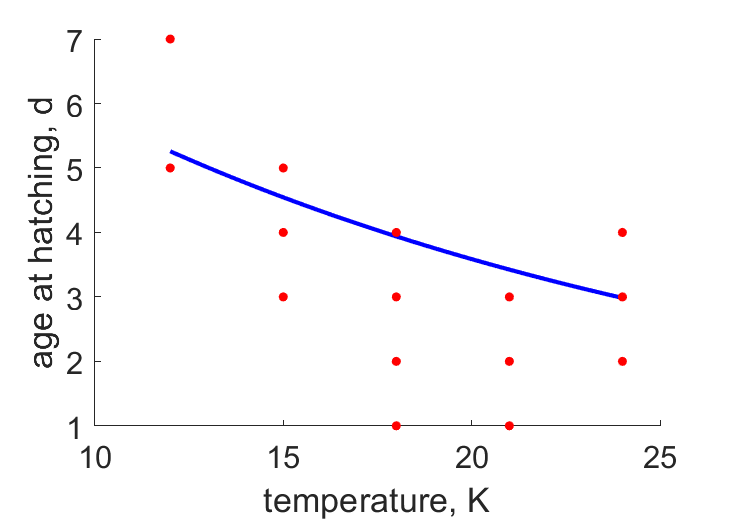
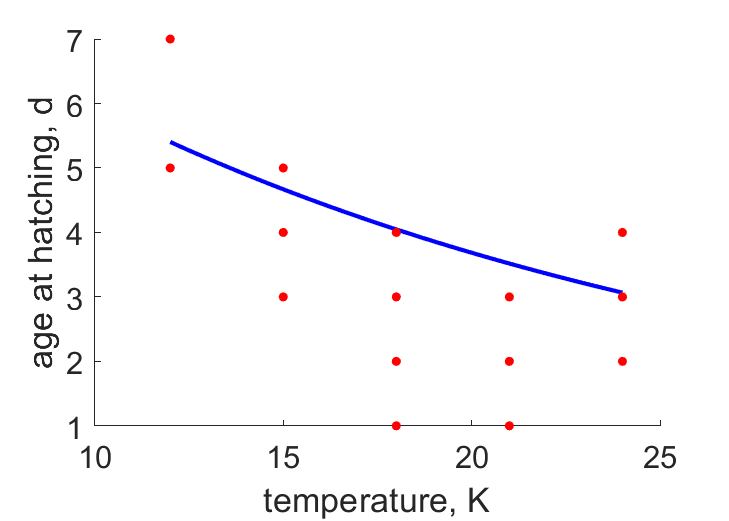
updates in preparation for AmP upload

Changed region(s): [[0.2112, 0.2764, 0.8752, 0.5835]]

diff --git a/Tachidius_discipes/Tachidius_discipes_res.html b/Tachidius_discipes/Tachidius_discipes_res.html
@@ -44,7 +44,7 @@
   </div>
 
   <div class="par">
-  <h4>COMPLETE = 2.0; MRE =    0.204; SMAE =    0.203; SMSE =    0.077 </h4>
+  <h4>COMPLETE = 2.0; MRE =    0.273; SMAE =    0.318; SMSE =    0.176 </h4>
   </div>
 
   <p class="clear"></p>
@@ -53,31 +53,31 @@
   <h2>Data & predictions</h2>
   <TABLE id="prd">
     <TR  class="head"><TH>data</TH> <TH>prd</TH> <TH>RE</TH>  <TH>symbol</TH> <TH>units</TH> <TH>description</TH> </TR>
-    <TR><TD>4.375</TD> <TD>4.041</TD> <TD>0.07625</TD> <TD>ah</TD> <TD>d</TD> <TD>age at hatch</TD></TR>
-    <TR><TD>0.006853</TD> <TD>0.007461</TD> <TD>0.08875</TD> <TD>Lh</TD> <TD>cm</TD> <TD>length at hatch</TD></TR>
-    <TR><TD>0.007812</TD> <TD>0.00812</TD> <TD>0.03944</TD> <TD>Lb</TD> <TD>cm</TD> <TD>length at birth</TD></TR>
-    <TR><TD>0.02666</TD> <TD>0.02195</TD> <TD>0.1767</TD> <TD>Lp</TD> <TD>cm</TD> <TD>length at puberty</TD></TR>
-    <TR><TD>2.057e-05</TD> <TD>2.049e-05</TD> <TD>0.003805</TD> <TD>Wdp</TD> <TD>g</TD> <TD>ultimate dry weight at puberty</TD></TR>
-    <TR><TD colspan="2">see figure</TD> <TD>0.2191</TD> <TD>tL12</TD> <TD colspan="2">time <font color="blue"><i>vs.</i></font> area^(1/2)</TD>
-    <TR><TD colspan="2">see figure</TD> <TD>0.1857</TD> <TD>tL15</TD> <TD colspan="2">time <font color="blue"><i>vs.</i></font> area^(1/2)</TD>
-    <TR><TD colspan="2">see figure</TD> <TD>0.1825</TD> <TD>tL18</TD> <TD colspan="2">time <font color="blue"><i>vs.</i></font> area^(1/2)</TD>
-    <TR><TD colspan="2">see figure</TD> <TD>0.1798</TD> <TD>tL21</TD> <TD colspan="2">time <font color="blue"><i>vs.</i></font> area^(1/2)</TD>
-    <TR><TD colspan="2">see figure</TD> <TD>0.1445</TD> <TD>tL24</TD> <TD colspan="2">time <font color="blue"><i>vs.</i></font> area^(1/2)</TD>
-    <TR><TD colspan="2">see figure</TD> <TD>0.1542</TD> <TD>tN12</TD> <TD colspan="2">time <font color="blue"><i>vs.</i></font> clutch size</TD>
-    <TR><TD colspan="2">see figure</TD> <TD>0.2581</TD> <TD>tN15</TD> <TD colspan="2">time <font color="blue"><i>vs.</i></font> clutch size</TD>
-    <TR><TD colspan="2">see figure</TD> <TD>0.2068</TD> <TD>tN18</TD> <TD colspan="2">time <font color="blue"><i>vs.</i></font> clutch size</TD>
-    <TR><TD colspan="2">see figure</TD> <TD>0.4694</TD> <TD>tN21</TD> <TD colspan="2">time <font color="blue"><i>vs.</i></font> clutch size</TD>
-    <TR><TD colspan="2">see figure</TD> <TD>0.3538</TD> <TD>tN24</TD> <TD colspan="2">time <font color="blue"><i>vs.</i></font> clutch size</TD>
-    <TR><TD colspan="2">see figure</TD> <TD>0.2498</TD> <TD>Tah</TD> <TD colspan="2">temperature <font color="blue"><i>vs.</i></font> age at hatching</TD>
-    <TR><TD colspan="2">see figure</TD> <TD>0.5537</TD> <TD>TR</TD> <TD colspan="2">temperature <font color="blue"><i>vs.</i></font> max reproduction rate</TD>
-    <TR><TD colspan="2">see figure</TD> <TD>91.32</TD> <TD>LWCN</TD> <TD colspan="2">length <font color="blue"><i>vs.</i></font> carbon mass</TD>
-    <TR><TD colspan="2">see figure</TD> <TD>0.1242</TD> <TD>Tap</TD> <TD colspan="2">temperature <font color="blue"><i>vs.</i></font> age at puberty</TD>
-    <TR class="psd"><TD>0.02</TD> <TD>0.01019</TD> <TD>0.4903</TD> <TD>psd.v</TD> <TD>cm/d</TD> <TD>energy conductance</TD></TR>
-    <TR class="psd"><TD>0.8</TD> <TD>0.9994</TD> <TD>0.2493</TD> <TD>psd.kap</TD> <TD>-</TD> <TD>allocation fraction to soma</TD></TR>
+    <TR><TD>4.375</TD> <TD>3.89</TD> <TD>0.1108</TD> <TD>ah</TD> <TD>d</TD> <TD>age at hatch</TD></TR>
+    <TR><TD>0.006853</TD> <TD>0.008086</TD> <TD>0.18</TD> <TD>Lh</TD> <TD>cm</TD> <TD>length at hatch</TD></TR>
+    <TR><TD>0.007812</TD> <TD>0.009066</TD> <TD>0.1604</TD> <TD>Lb</TD> <TD>cm</TD> <TD>length at birth</TD></TR>
+    <TR><TD>0.02666</TD> <TD>0.02291</TD> <TD>0.1406</TD> <TD>Lp</TD> <TD>cm</TD> <TD>length at puberty</TD></TR>
+    <TR><TD>2.057e-05</TD> <TD>1.397e-06</TD> <TD>0.9321</TD> <TD>Wdp</TD> <TD>g</TD> <TD>ultimate dry weight at puberty</TD></TR>
+    <TR><TD colspan="2">see figure</TD> <TD>0.234</TD> <TD>tL12</TD> <TD colspan="2">time <font color="blue"><i>vs.</i></font> area^(1/2)</TD>
+    <TR><TD colspan="2">see figure</TD> <TD>0.2034</TD> <TD>tL15</TD> <TD colspan="2">time <font color="blue"><i>vs.</i></font> area^(1/2)</TD>
+    <TR><TD colspan="2">see figure</TD> <TD>0.2056</TD> <TD>tL18</TD> <TD colspan="2">time <font color="blue"><i>vs.</i></font> area^(1/2)</TD>
+    <TR><TD colspan="2">see figure</TD> <TD>0.206</TD> <TD>tL21</TD> <TD colspan="2">time <font color="blue"><i>vs.</i></font> area^(1/2)</TD>
+    <TR><TD colspan="2">see figure</TD> <TD>0.1644</TD> <TD>tL24</TD> <TD colspan="2">time <font color="blue"><i>vs.</i></font> area^(1/2)</TD>
+    <TR><TD colspan="2">see figure</TD> <TD>0.1591</TD> <TD>tN12</TD> <TD colspan="2">time <font color="blue"><i>vs.</i></font> clutch size</TD>
+    <TR><TD colspan="2">see figure</TD> <TD>0.2579</TD> <TD>tN15</TD> <TD colspan="2">time <font color="blue"><i>vs.</i></font> clutch size</TD>
+    <TR><TD colspan="2">see figure</TD> <TD>0.2131</TD> <TD>tN18</TD> <TD colspan="2">time <font color="blue"><i>vs.</i></font> clutch size</TD>
+    <TR><TD colspan="2">see figure</TD> <TD>0.4667</TD> <TD>tN21</TD> <TD colspan="2">time <font color="blue"><i>vs.</i></font> clutch size</TD>
+    <TR><TD colspan="2">see figure</TD> <TD>0.3482</TD> <TD>tN24</TD> <TD colspan="2">time <font color="blue"><i>vs.</i></font> clutch size</TD>
+    <TR><TD colspan="2">see figure</TD> <TD>0.2649</TD> <TD>Tah</TD> <TD colspan="2">temperature <font color="blue"><i>vs.</i></font> age at hatching</TD>
+    <TR><TD colspan="2">see figure</TD> <TD>0.5353</TD> <TD>TR</TD> <TD colspan="2">temperature <font color="blue"><i>vs.</i></font> max reproduction rate</TD>
+    <TR><TD colspan="2">see figure</TD> <TD>0.9</TD> <TD>LWCN</TD> <TD colspan="2">length <font color="blue"><i>vs.</i></font> carbon mass</TD>
+    <TR><TD colspan="2">see figure</TD> <TD>0.1229</TD> <TD>Tap</TD> <TD colspan="2">temperature <font color="blue"><i>vs.</i></font> age at puberty</TD>
+    <TR class="psd"><TD>0.02</TD> <TD>0.005855</TD> <TD>0.7073</TD> <TD>psd.v</TD> <TD>cm/d</TD> <TD>energy conductance</TD></TR>
+    <TR class="psd"><TD>0.8</TD> <TD>0.9921</TD> <TD>0.2401</TD> <TD>psd.kap</TD> <TD>-</TD> <TD>allocation fraction to soma</TD></TR>
     <TR class="psd"><TD>0.95</TD> <TD>0.95</TD> <TD>  0</TD> <TD>psd.kap_R</TD> <TD>-</TD> <TD>reproduction efficiency</TD></TR>
-    <TR class="psd"><TD> 18</TD> <TD>2765</TD> <TD>152.6</TD> <TD>psd.p_M</TD> <TD>J/d.cm^3</TD> <TD>vol-spec som maint</TD></TR>
+    <TR class="psd"><TD> 18</TD> <TD>727.6</TD> <TD>39.42</TD> <TD>psd.p_M</TD> <TD>J/d.cm^3</TD> <TD>vol-spec som maint</TD></TR>
     <TR class="psd"><TD>0.002</TD> <TD>0.002</TD> <TD>  0</TD> <TD>psd.k_J</TD> <TD>1/d</TD> <TD>maturity maint rate coefficient</TD></TR>
-    <TR class="psd"><TD>0.8</TD> <TD>0.8006</TD> <TD>0.0007467</TD> <TD>psd.kap_G</TD> <TD>-</TD> <TD>growth efficiency</TD></TR>
+    <TR class="psd"><TD>0.8</TD> <TD>0.8003</TD> <TD>0.0003147</TD> <TD>psd.kap_G</TD> <TD>-</TD> <TD>growth efficiency</TD></TR>
   </TABLE>
   </div>
 
@@ -87,23 +87,23 @@
     <TR class="head"><TH>symbol</TH> <TH>units</TH> <TH>value</TH>  <TH>free</TH> <TH>description</TH> </TR>
     <TR><TD>T_ref</TD> <TD>K</TD> <TD>293.1</TD> <TD>0</TD> <TD>Reference temperature</TD></TR>
     <TR><TD>T_A</TD> <TD>K</TD> <TD>4001</TD> <TD>0</TD> <TD>Arrhenius temperature</TD></TR>
-    <TR><TD>z</TD> <TD>-</TD> <TD>0.05222</TD> <TD>1</TD> <TD>zoom factor</TD></TR>
+    <TR><TD>z</TD> <TD>-</TD> <TD>0.04082</TD> <TD>1</TD> <TD>zoom factor</TD></TR>
     <TR><TD>F_m</TD> <TD>l/d.cm^2</TD> <TD>6.5</TD> <TD>0</TD> <TD>{F_m}, max spec searching rate</TD></TR>
     <TR><TD>kap_X</TD> <TD>-</TD> <TD>0.8</TD> <TD>0</TD> <TD>digestion efficiency of food to reserve</TD></TR>
     <TR><TD>kap_P</TD> <TD>-</TD> <TD>0.1</TD> <TD>0</TD> <TD>faecation efficiency of food to faeces</TD></TR>
-    <TR><TD>v</TD> <TD>cm/d</TD> <TD>0.01019</TD> <TD>1</TD> <TD>energy conductance</TD></TR>
-    <TR><TD>kap</TD> <TD>-</TD> <TD>0.9994</TD> <TD>1</TD> <TD>allocation fraction to soma</TD></TR>
+    <TR><TD>v</TD> <TD>cm/d</TD> <TD>0.005855</TD> <TD>1</TD> <TD>energy conductance</TD></TR>
+    <TR><TD>kap</TD> <TD>-</TD> <TD>0.9921</TD> <TD>1</TD> <TD>allocation fraction to soma</TD></TR>
     <TR><TD>kap_R</TD> <TD>-</TD> <TD>0.95</TD> <TD>0</TD> <TD>reproduction efficiency</TD></TR>
-    <TR><TD>p_M</TD> <TD>J/d.cm^3</TD> <TD>2765</TD> <TD>1</TD> <TD>[p_M], vol-spec somatic maint</TD></TR>
+    <TR><TD>p_M</TD> <TD>J/d.cm^3</TD> <TD>727.6</TD> <TD>1</TD> <TD>[p_M], vol-spec somatic maint</TD></TR>
     <TR><TD>p_T</TD> <TD>J/d.cm^2</TD> <TD>  0</TD> <TD>0</TD> <TD>{p_T}, surf-spec somatic maint</TD></TR>
     <TR><TD>k_J</TD> <TD>1/d</TD> <TD>0.002</TD> <TD>0</TD> <TD>maturity maint rate coefficient</TD></TR>
-    <TR><TD>E_G</TD> <TD>J/cm^3</TD> <TD>4442</TD> <TD>1</TD> <TD>[E_G], spec cost for structure</TD></TR>
-    <TR><TD>E_Hb</TD> <TD>J</TD> <TD>5.474e-06</TD> <TD>1</TD> <TD>maturity at birth</TD></TR>
-    <TR><TD>E_Hp</TD> <TD>J</TD> <TD>0.0002838</TD> <TD>1</TD> <TD>maturity at puberty</TD></TR>
-    <TR><TD>h_a</TD> <TD>1/d^2</TD> <TD>2.166e-21</TD> <TD>1</TD> <TD>Weibull aging acceleration</TD></TR>
+    <TR><TD>E_G</TD> <TD>J/cm^3</TD> <TD>4444</TD> <TD>1</TD> <TD>[E_G], spec cost for structure</TD></TR>
+    <TR><TD>E_Hb</TD> <TD>J</TD> <TD>9.287e-06</TD> <TD>1</TD> <TD>maturity at birth</TD></TR>
+    <TR><TD>E_Hp</TD> <TD>J</TD> <TD>0.0002327</TD> <TD>1</TD> <TD>maturity at puberty</TD></TR>
+    <TR><TD>h_a</TD> <TD>1/d^2</TD> <TD>2.725e-17</TD> <TD>1</TD> <TD>Weibull aging acceleration</TD></TR>
     <TR><TD>s_G</TD> <TD>-</TD> <TD>0.0001</TD> <TD>0</TD> <TD>Gompertz stress coefficient</TD></TR>
-    <TR><TD>E_Hh</TD> <TD>J</TD> <TD>4.003e-06</TD> <TD>1</TD> <TD>maturity at hatch</TD></TR>
-    <TR><TD>del_M</TD> <TD>-</TD> <TD>1.351</TD> <TD>1</TD> <TD>shape coefficient</TD></TR>
+    <TR><TD>E_Hh</TD> <TD>J</TD> <TD>6.351e-06</TD> <TD>1</TD> <TD>maturity at hatch</TD></TR>
+    <TR><TD>del_M</TD> <TD>-</TD> <TD>0.6667</TD> <TD>1</TD> <TD>shape coefficient</TD></TR>
     <TR><TD>f</TD> <TD>-</TD> <TD>  1</TD> <TD>0</TD> <TD>scaled functional response for 0-var data</TD></TR>
   </TABLE>
   </div>

diff --git a/Tachidius_discipes/mydata_Tachidius_discipes.m b/Tachidius_discipes/mydata_Tachidius_discipes.m
@@ -21,53 +21,53 @@ metaData.ecoCode.reprod  = {'O'};
 metaData.T_typical  = C2K(15); % K, body temp
 
 metaData.data_0     = {'ah','Lh','Lb','Lp','Wdp','am'};
-metaData.data_1     = {'tN','tR','tL','LWC','LWN','T-ah','t-ap'};
+metaData.data_1     = {'tN_T','tR_T','tL_T','LWC','LWN','T-ah','t-ap'};
 
 metaData.COMPLETE   = 2; % using criteria of LikaKear2011
 
 metaData.author     = {'Julieta Vigliano Relva'};
-metaData.date_subm  = [2023 5 22];
+metaData.date_subm  = [2023 6 16];
 metaData.email      = {'julieta.vigliano@ugent.be'};
 metaData.address    = {'UGent Ghent University'};
 
 metaData.curator    = {'Starrlight Augustine'};
 metaData.email_cur  = {'starrlight@tecnico.ulisboa.pt'};
-metaData.date_acc   = [2023 5 3];
+metaData.date_acc   = [2023 6 21];
 
 %% set zero-variate data
-data.ah = 4.375; units.ah = 'd'; label.ah = 'age at hatch'; bibkey.ah = {'Vigliano'};
+data.ah = 4.375; units.ah = 'd'; label.ah = 'age at hatch'; bibkey.ah = {'Vigl2023'};
   temp.ah = C2K(15); units.temp.ah = 'K'; label.temp.ah = 'temperature';
-data.Lh = 0.006852623; units.Lh = 'cm'; label.Lh = 'length at hatch'; bibkey.Lh = {'Vigliano'};
-data.Lb = 0.007812255; units.Lb = 'cm'; label.Lb = 'length at birth'; bibkey.Lb = {'Vigliano'};
-data.Lp = 0.0266569358756218; units.Lp = 'cm'; label.Lp = 'length at puberty'; bibkey.Lp = {'Vigliano'};
-data.Wdp =0.0000205716902; units.Wdp = 'g'; label.Wdp = 'ultimate dry weight at puberty'; bibkey.Wdp = {'Vigliano'};
+data.Lh = 0.006852623; units.Lh = 'cm'; label.Lh = 'length at hatch'; bibkey.Lh = {'Vigl2023'};
+data.Lb = 0.007812255; units.Lb = 'cm'; label.Lb = 'length at birth'; bibkey.Lb = {'Vigl2023'};
+data.Lp = 0.0266569358756218; units.Lp = 'cm'; label.Lp = 'length at puberty'; bibkey.Lp = {'Vigl2023'};
+data.Wdp =0.0000205716902; units.Wdp = 'g'; label.Wdp = 'ultimate dry weight at puberty'; bibkey.Wdp = {'Vigl2023'};
 
 %% set uni-variate data
 % time - length
 data.tL12 = readmatrix('tL12.txt');
 units.tL12 = {'d', 'cm'}; label.tL12 = {'time', 'area^(1/2)'};
 temp.tL12 = C2K(12); units.temp.tL12 = 'K'; label.temp.tL12 = 'temperature';
-bibkey.tL12 = {'Vigliano'};
+bibkey.tL12 = {'Vigl2023'};
 
 data.tL15 = readmatrix('tL15.txt');
 units.tL15 = {'d', 'cm'}; label.tL15 = {'time', 'area^(1/2)'};
-temp.tL15 = C2K(15); units.temp.tL = 'K'; label.temp.tL15 = 'temperature';
-bibkey.tL15 = {'Vigliano'};
+temp.tL15 = C2K(15); units.temp.tL15 = 'K'; label.temp.tL15 = 'temperature';
+bibkey.tL15 = {'Vigl2023'};
 
 data.tL18 = readmatrix('tL18.txt');
 units.tL18 = {'d', 'cm'}; label.tL18 = {'time', 'area^(1/2)'};
 temp.tL18 = C2K(18); units.temp.tL18 = 'K'; label.temp.tL18 = 'temperature';
-bibkey.tL18 = {'Vigliano'};
+bibkey.tL18 = {'Vigl2023'};
 
 data.tL21= readmatrix('tL21.txt');
 units.tL21 = {'d', 'cm'}; label.tL21 = {'time', 'area^(1/2)'};
 temp.tL21 = C2K(21); units.temp.tL21 = 'K'; label.temp.tL21 = 'temperature';
-bibkey.tL21 = {'Vigliano'};
+bibkey.tL21 = {'Vigl2023'};
 
 data.tL24 = readmatrix('tL24.txt');
 units.tL24 = {'d', 'cm'}; label.tL24 = {'time', 'area^(1/2)'};
 temp.tL24 = C2K(24); units.temp.tL24 = 'K'; label.temp.tL24 = 'temperature';
-bibkey.tL24 = {'Vigliano'};
+bibkey.tL24 = {'Vigl2023'};
 
 %%time- number of offspring
 data.tN12 = [...
@@ -86,7 +86,7 @@ data.tN12 = [...
 ];
 units.tN12 = {'d', '#'}; label.tN12= {'time', 'clutch size'};
 temp.tN12 = C2K(12); units.temp.tN12 = 'K'; label.temp.tN12 = 'temperature';
-bibkey.tL24 = {'Vigliano'}; treat.tN12 = {0};
+bibkey.tL24 = {'Vigl2023'}; treat.tN12 = {0};
 
 
 data.tN15 = [...
@@ -101,7 +101,7 @@ data.tN15 = [...
 ];
 units.tN15 = {'d', '#'}; label.tN15= {'time', 'clutch size'};
 temp.tN15 = C2K(15); units.temp.tN15 = 'K'; label.temp.tN15 = 'temperature';
-bibkey.tL15 = {'Vigliano'};
+bibkey.tN15 = {'Vigl2023'};
 treat.tN15 = {0};
 
 data.tN18 = [...
@@ -118,7 +118,7 @@ data.tN18 = [...
 ];
 units.tN18 = {'d', '#'}; label.tN18= {'time', 'clutch size'};
 temp.tN18 = C2K(18); units.temp.tN18 = 'C'; label.temp.tN18 = 'temperature';
-bibkey.tN18 = {'Vigliano'};
+bibkey.tN18 = {'Vigl2023'};
 treat.tN18 = {0};
 
 data.tN21 = [...
@@ -133,8 +133,8 @@ data.tN21 = [...
 24.00	10
 ];
 units.tN21 = {'d', '#'}; label.tN21= {'time', 'clutch size'};
-temp.tN21 = C2K(21); units.temp.tL21 = 'K'; label.temp.tN21 = 'temperature';
-bibkey.tN_21 = {'Vigliano'};
+temp.tN21 = C2K(21); units.temp.tN21 = 'K'; label.temp.tN21 = 'temperature';
+bibkey.tN21 = {'Vigl2023'};
 treat.tN21 = {0};
 
 data.tN24 = [...
@@ -153,7 +153,7 @@ data.tN24 = [...
 ];
 units.tN24 = {'d', '#'}; label.tN24= {'time', 'clutch size'};
 temp.tN24 = C2K(24); units.temp.tN24 = 'C'; label.temp.tN24 = 'temperature';
-bibkey.tN24 = {'Vigliano'};
+bibkey.tN24 = {'Vigl2023'};
 treat.tN24 = {0}; 
 
 %%tN_T data
@@ -211,7 +211,7 @@ data.Tah= [...
 12	7
 ];
 units.Tah = {'K', 'd'}; label.Tah= {'temperature', 'age at hatching'};
-bibkey.Tah = {'Vigliano'};
+bibkey.Tah = {'Vigl2023'};
 
 
 
@@ -268,7 +268,7 @@ data.TR= [...
 24	1.142857143
 24	1.071428571];
 units.TR = {'C', '#'}; label.TR= {'temperature', 'max reproduction rate'};
-bibkey.TR = {'Vigliano'};
+bibkey.TR = {'Vigl2023'};
 
 data.LWCN= [...
 0.026656936	0.983820513	0.247615385
@@ -277,7 +277,7 @@ data.LWCN= [...
 ];
 % data.LWC = LWCN(:,[1 2]);
 units.LWCN = {'cm', 'mugC', 'mugN'}; label.LWCN= {'length', 'carbon mass', 'nitrogen mass'};
-bibkey.LWCN = {'Vigliano'};  
+bibkey.LWCN = {'Vigl2023'};  
 treat.LWCN = {1, {'Carbon weight','Nitrogen weight'}};
 
 data.Tap = [... time since hatch, age at puberty
@@ -288,18 +288,17 @@ data.Tap = [... time since hatch, age at puberty
 24  14
 ];
 units.Tap = {'C', 'd'}; label.Tap = {'temperature', 'age at puberty'};
-bibkey.Tap = {'Vigliano'};  
+bibkey.Tap = {'Vigl2023'};  
 
 
 % data.LWN= LWCN(:,[1 3]);
 % units.LWN = {'cm', 'mug'}; label.LWN= {'length', 'mass'};
-% bibkey.LWN = {'Vigliano'};
+% bibkey.LWN = {'Vigl2023'};
 % treat.tLW = {1, {'Carbon weight','Nitrogen weight'}};
 
 %% set weights for all real data
  weights = setweights(data, []);
   weights.LWCN= 0* weights.LWCN;
- % weights.LWN = 0* weights.LWCN; 
 
 %% set pseudodata and respective weights
 [data, units, label, weights] = addpseudodata(data, units, label, weights);
@@ -320,9 +319,10 @@ metaData.grp.sets = {set1, set2};
 metaData.grp.comment = {subtitle1,subtitle2};
 
 %% Discussion points
-D1  = 'There is a change of shape at metamorphosis, between naupliar stage 6 and copepodite 1 stages';
+D1  = 'There is a change of shape at metamorphosis, between naupliar stage 6 and copepodite 1 stages, and the length is the square root of the ellipse surface';
+D2  = 'sbp model is coded as subfunction, and assumes no kappa rule in the adult stage. more investigations pending to resolve the final choice of model for this species.';
 % metaData.bibkey.D1 = {};
-metaData.discussion = struct('D1',D1);
+metaData.discussion = struct('D1',D1, 'D2',D2);
 
 %% Facts
 F1  = 'Sexual reproduction in adult stage; 12 molts: 6 naupliar stages, 5 copepodite stages, 1 adult stage ';
@@ -348,8 +348,8 @@ bibkey = 'Kooy2010'; type = 'Book'; bib = [ ...  % used in setting of chemical p
 metaData.biblist.(bibkey) = ['''@', type, '{', bibkey, ', ' bib, '}'';'];
 %
 
-bibkey = 'Vigliano'; type = 'misc'; bib = [ ...
-'author = {Vigliano}, ' ... 
+bibkey = 'Vigl2023'; type = 'misc'; bib = [ ...
+'author = {Vigl2023}, ' ... 
 'note = {experimental data}, ' ... 
 'year = {2023}, ' ... 
 'doi = {10.21203/rs.3.rs-2858869/v1}'];

diff --git a/Tachidius_discipes/run_Tachidius_discipes.m b/Tachidius_discipes/run_Tachidius_discipes.m
@@ -9,8 +9,8 @@ estim_options('default');
 estim_options('max_step_number', 5e2);
 estim_options('max_fun_evals',5e3);
 
-estim_options('pars_init_method',1);
-estim_options('results_output', 3);
-estim_options('method', 'nm');
+estim_options('pars_init_method',2);
+estim_options('results_output', 4);
+estim_options('method', 'no');
 
 estim_pars;
